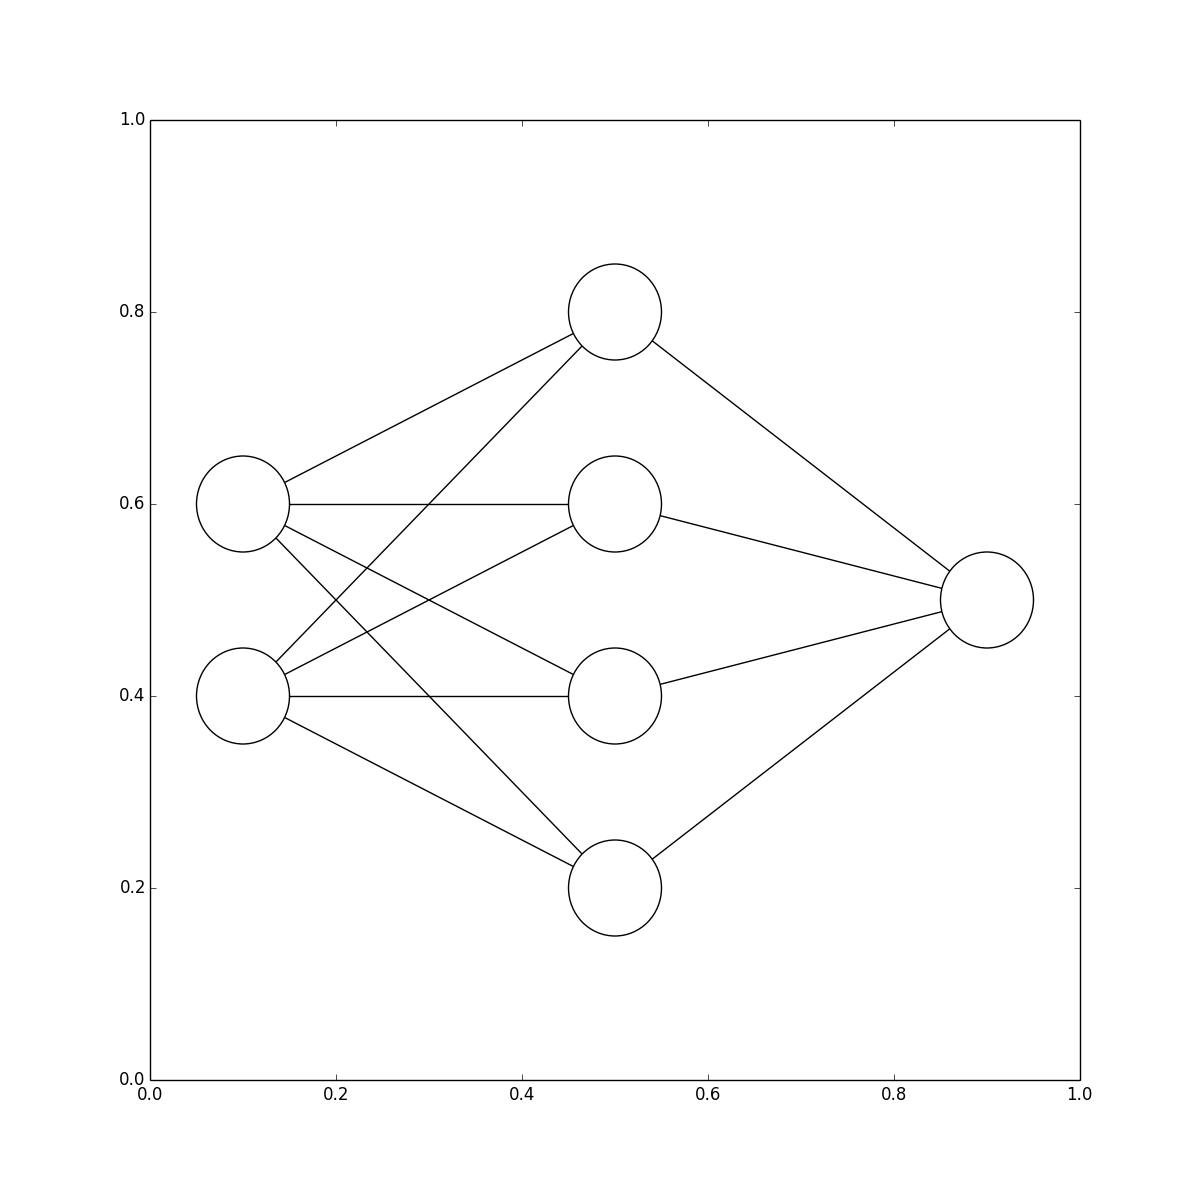
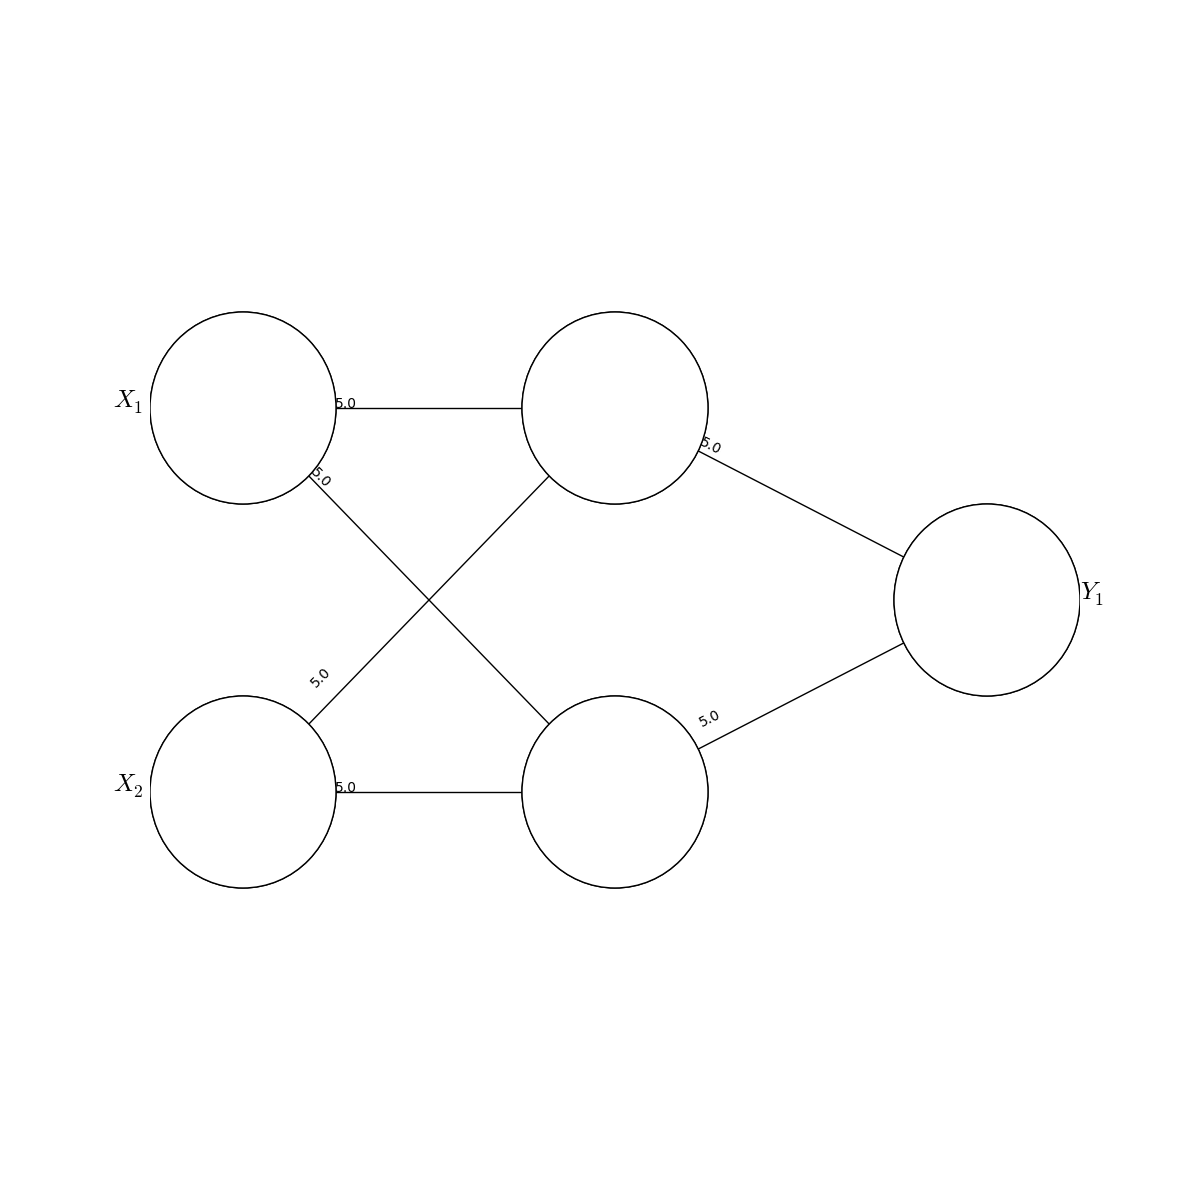
weights on the draw

diff --git a/ml.py b/ml.py
@@ -50,22 +50,59 @@ class Neural_network:
     n_layers = len(self.dimensions)
     v_spacing = (top - bottom)/float(max(self.dimensions))
     h_spacing = (right - left)/float(len(self.dimensions) - 1)
+    # Input-Arrows
+    layer_top_0 = v_spacing*(self.dimensions[0] - 1)/2. + (top + bottom)/2.
+    for m in range(self.dimensions[0]):
+      plt.arrow(left-0.1, layer_top_0 - m*v_spacing, 0.12, 0,  lw =1, head_width=0.01, head_length=0.02)   
     # Nodes
     for n, layer_size in enumerate(self.dimensions):
         layer_top = v_spacing*(layer_size - 1)/2. + (top + bottom)/2.
-        for m in xrange(layer_size):
+        for m in range(layer_size):
             circle = plt.Circle((n*h_spacing + left, layer_top - m*v_spacing), v_spacing/4.,
                                 color='w', ec='k', zorder=4)
+            ax.add_artist(circle)
+    # Add texts
+            if n == 0:
+                plt.text(left-0.14, layer_top - m*v_spacing, r'$X_{'+str(m+1)+'}$', fontsize=18)
+            elif (n_layers == 3) & (n == 1):
+                plt.text(n*h_spacing + left+0.00, layer_top - m*v_spacing+ (v_spacing/8.+0.01*v_spacing), r'$H_{'+str(m+1)+'}$', fontsize=15)
+            elif n == n_layers -1:
+                plt.text(n*h_spacing + left+0.10, layer_top - m*v_spacing, r'$Y_{'+str(m+1)+'}$', fontsize=18)
             ax.add_artist(circle)
     # Edges
     for n, (layer_size_a, layer_size_b) in enumerate(zip(self.dimensions[:-1], self.dimensions[1:])):
         layer_top_a = v_spacing*(layer_size_a - 1)/2. + (top + bottom)/2.
         layer_top_b = v_spacing*(layer_size_b - 1)/2. + (top + bottom)/2.
-        for m in xrange(layer_size_a):
-            for o in xrange(layer_size_b):
+        for m in range(layer_size_a):
+            for o in range(layer_size_b):
                 line = plt.Line2D([n*h_spacing + left, (n + 1)*h_spacing + left],
                                   [layer_top_a - m*v_spacing, layer_top_b - o*v_spacing], c='k')
                 ax.add_artist(line)
+                xm = (n*h_spacing + left)
+                xo = ((n + 1)*h_spacing + left)
+                ym = (layer_top_a - m*v_spacing)
+                yo = (layer_top_b - o*v_spacing)
+                rot_mo_rad = np.arctan((yo-ym)/(xo-xm))
+                rot_mo_deg = rot_mo_rad*180./np.pi
+                xm1 = xm + (v_spacing/8.+0.05)*np.cos(rot_mo_rad)
+                if n == 0:
+                    if yo > ym:
+                        ym1 = ym + (v_spacing/8.+0.12)*np.sin(rot_mo_rad)
+                    else:
+                        ym1 = ym + (v_spacing/8.+0.05)*np.sin(rot_mo_rad)
+                else:
+                    if yo > ym:
+                        ym1 = ym + (v_spacing/8.+0.12)*np.sin(rot_mo_rad)
+                    else:
+                        ym1 = ym + (v_spacing/8.+0.04)*np.sin(rot_mo_rad)
+                plt.text( xm1, ym1,\
+                        str(round(5.345)),\
+                        rotation = rot_mo_deg, \
+                        fontsize = 10)
+    # Output-Arrows
+    layer_top_0 = v_spacing*(self.dimensions[-1] - 1)/2. + (top + bottom)/2.
+    for m in range(self.dimensions[-1]):
+      plt.arrow(right+0.015, layer_top_0 - m*v_spacing, 0.16*h_spacing, 0,  lw =1, head_width=0.01, head_length=0.02)
     fig.savefig('nn.png')
 
 
@@ -132,22 +169,21 @@ def train(input, network, wanted_output):
 
   
 
-network = Neural_network([2, 4, 1])
+network = Neural_network([2, 2, 1])
 
 
 
 
 training_set = [[np.array([[1], [1]]), [[0]]], [np.array([[0], [0]]), [[0]]], [np.array([[0], [1]]), [[1]]], [np.array([[1], [0]]), [[1]]]]
-choice = random.choice(training_set)
-for i in range(50000):
-  choice = random.choice(training_set)
-  train(choice[0], network, choice[1])
+#for i in range(50000):
+  #choice = random.choice(training_set)
+  #train(choice[0], network, choice[1])
 
 network.draw(.1, .9, .1, .9)
-print(output(np.array([[1], [1]]), network))
-print(output(np.array([[0], [0]]), network))
-print(output(np.array([[0], [1]]), network))
-print(output(np.array([[1], [0]]), network))
+#print(output(np.array([[1], [1]]), network))
+#print(output(np.array([[0], [0]]), network))
+#print(output(np.array([[0], [1]]), network))
+#print(output(np.array([[1], [0]]), network))
 
 
 
